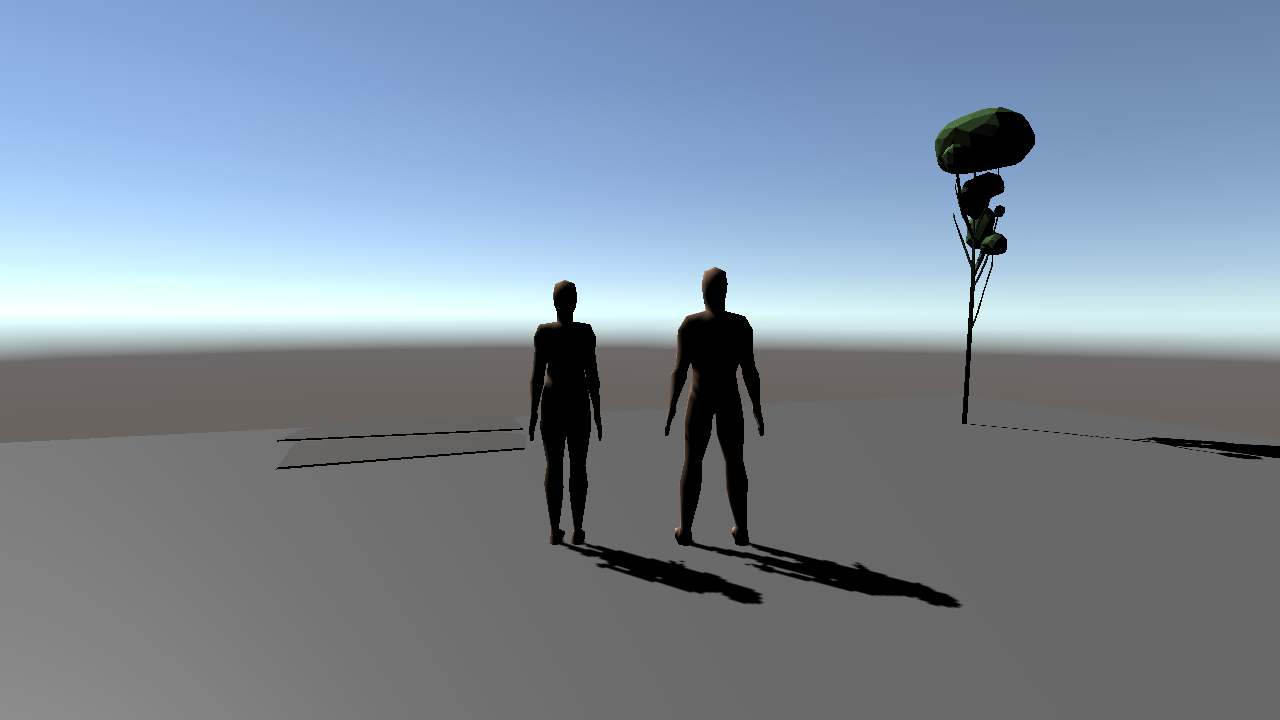
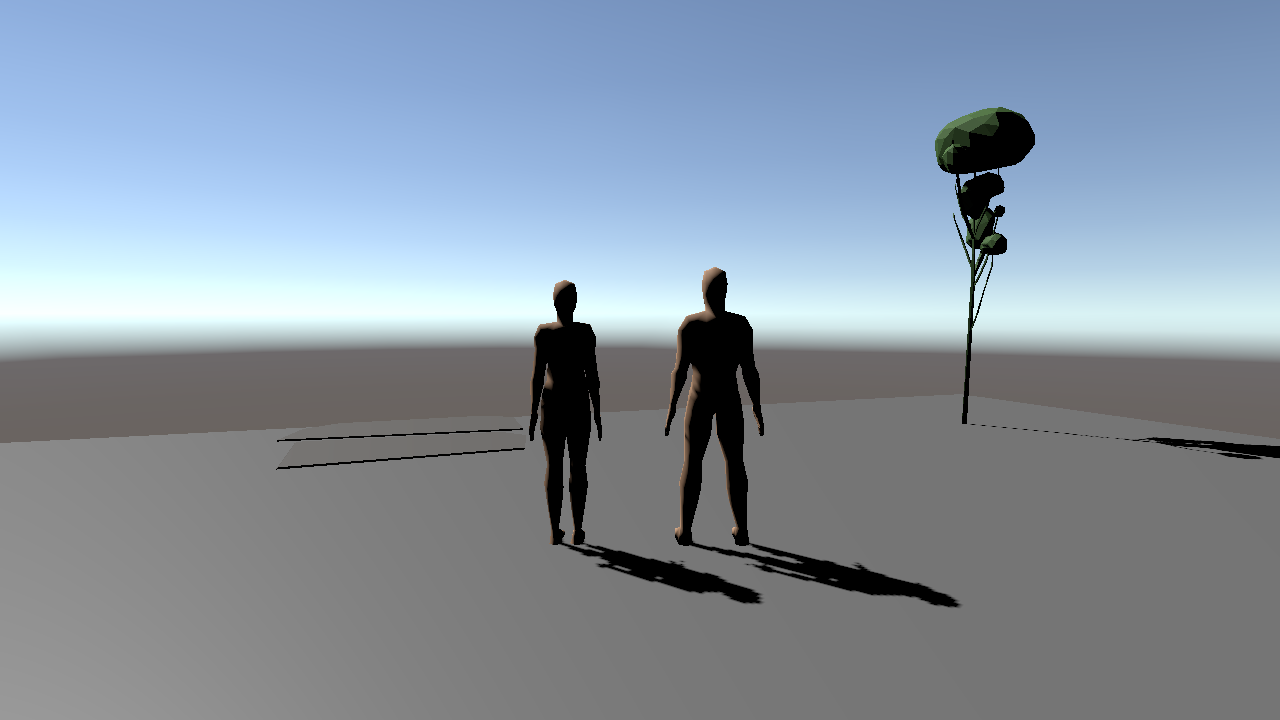
TASK-A-R9-19: 色彩管线迁移落地——Gamma→Linear + Medium/High Tonemapping(Neutral);两档后处理重新分层(Medium Bloom 0.6/High exposure 0.5+saturation 14,差1.48x);Linear 1102+88全绿;ZRender桥UNORM视图

diff --git a/UnityProject/Assets/Game/Editor/ColorPipelineSetup.cs b/UnityProject/Assets/Game/Editor/ColorPipelineSetup.cs
@@ -10,24 +10,24 @@ using UnityEngine.Rendering.Universal;
 namespace Game.Editor
 {
     /// <summary>
-    /// 【实验工具 · 默认禁用】URP 色彩管线迁移（Gamma → Linear + Tonemapping）。
+    /// URP 色彩管线迁移（Gamma → Linear + HDR 两档 Tonemapping）。
     ///
-    /// ⚠ 2026-11-09 实测结论（TASK-A-R9-19）：**这不是一个开关级迁移**。
-    /// 单独执行本工具会让 4 个用例变红，并使画面基准整体位移 +9 灰阶：
-    ///   1. `ZRenderFrameSyncTests` / `ZRenderPipelineTextureLifecycleTests` —
-    ///      Unity 在 Linear 下给 ZRender 的 BGRA8 共享纹理建 sRGB SRV，
-    ///      与原生 UNORM 资源不兼容（dxgi-fmt 91 vs 87）；
-    ///   2. `GameplayFxPixelEvidencePlayModeTests` — 加色粒子在 Linear 下变暗
-    ///      （门限 0.0040，实测 0.0003），特效强度需要重标定；
-    ///   3. `PostFxPixelEvidencePlayModeTests` — 两档都加 Tonemapping 后
-    ///      High/Medium 差异被压缩到门限以下（0.1469 vs 0.1590）。
+    /// **状态：已落地**（TASK-A-R9-19，2026-11-09）。工程当前就是
+    /// `m_ActiveColorSpace: 1` + Medium/High 两档 Tonemapping(Neutral)。
+    /// 本工具保留为**幂等重放/核对**入口：重复跑不会叠加组件，只把
+    /// 色彩空间与 Tonemapping 摆回目标状态。
     ///
-    /// 另一个机制点：切 Linear 时 Unity 会把 `m_LightsUseLinearIntensity`
-    /// 从 0 翻到 1，全场景灯光需要按线性强度重新标定——这是"切完变黑"的根因，
-    /// 不是渲染坏了。
+    /// 落地时踩过的三件事（别再踩）：
+    ///   1. 切换后**第一次运行不可信**：变体未编译完，首张截图全黑、首轮
+    ///      粒子像素用例假红。任何对照都必须复跑一次再判定。
+    ///   2. Unity 会自动把 `m_LightsUseLinearIntensity` 0→1，并重新序列化
+    ///      材质的 sRGB 颜色——迁移是一个资产级提交，不是只改 ProjectSettings。
+    ///   3. ZRender 的共享纹理桥在 Linear 下必须用 UNORM 视图
+    ///      （`CreateExternalTexture(linear:true)`），否则建 sRGB SRV 与
+    ///      UNORM 资源冲突（dxgi 91 vs 87）。见 TASK-A-R9-19 §6。
     ///
-    /// 因此本工具加了环境变量闸门，只有显式设置 `ZF_COLOR_MIGRATION_OK=1`
-    /// 才会执行，避免被误用。完整迁移步骤见 `Docs/Logs/TASK-A-R9-19.md`。
+    /// 闸门：仍需 `ZF_COLOR_MIGRATION_OK=1` 才执行，防止在未读完交接的环境里
+    /// 误跑（效果是幂等的，但会触发一次全量资产重导入）。
     ///
     /// 批处理（自退出）：
     ///   set ZF_COLOR_MIGRATION_OK=1
@@ -72,7 +72,7 @@ namespace Game.Editor
             if (Environment.GetEnvironmentVariable(AllowEnvVar) != "1")
             {
                 Debug.LogError(
-                    $"[ColorPipelineSetup] 拒绝执行：本工具是实验性的，单独开启会让 4 个用例变红。" +
+                    $"[ColorPipelineSetup] 拒绝执行：迁移是资产级操作（会触发全量重导入）。" +
                     $"确认已读完 Docs/Logs/TASK-A-R9-19.md 后，设置 {AllowEnvVar}=1 再跑。");
                 return 2;
             }

diff --git a/UnityProject/Assets/ZFrame/Tests/PlayMode/PostFxPixelEvidencePlayModeTests.cs b/UnityProject/Assets/ZFrame/Tests/PlayMode/PostFxPixelEvidencePlayModeTests.cs
@@ -225,11 +225,14 @@ namespace ZFrame.PlayMode.Tests
             Assert.Less(tierDiff[0].BrighterFraction, 0.002f,
                 $"Low tier is documented as an empty profile but {tierDiff[0].BrighterFraction:F4} of pixels got brighter");
 
-            // Medium = Bloom 1.0, High = Bloom 2.5 + ColorAdjustments: both must
-            // move the frame, and High must move it substantially more.
+            // Medium = Bloom 0.6, High = Bloom 2.5 + ColorAdjustments (exposure 0.5,
+            // saturation 14): both must move the frame, and High must move it
+            // substantially more. TASK-A-R9-19 P3 re-balanced the tiers after
+            // Tonemapping compressed the HDR top end.
             Assert.Greater(tierDiff[1].BrighterFraction, MinBrighterFraction,
-                $"Medium (Bloom 1.0) did not brighten the frame: {tierDiff[1].BrighterFraction:F4}");
-            // Measured High/Medium mean|delta| ratio: 1.68x (0.0563 vs 0.0336).
+                $"Medium (Bloom 0.6) did not brighten the frame: {tierDiff[1].BrighterFraction:F4}");
+            // Measured High/Medium mean|delta| ratio: 1.48x (0.1595 vs 0.1080, Linear +
+            // Neutral tonemapping, 2026-11-09).
             Assert.Greater(tierDiff[2].MeanAbs, tierDiff[1].MeanAbs * 1.35f,
                 $"High and Medium render the same picture: mean |delta| {tierDiff[2].MeanAbs:F5} vs {tierDiff[1].MeanAbs:F5}");
             Assert.Greater(tierOn[2].Stats.MeanLuma, tierOn[1].Stats.MeanLuma,
